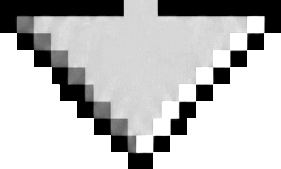
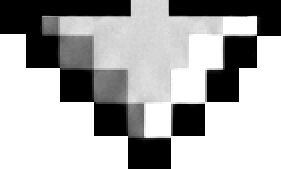
8-bit diagonal arrowheads upgrades

Changed region(s): [[0.0, 0.0888, 1.0, 1.0], [0.5409, 0.0, 0.6263, 0.1183], [0.427, 0.0, 0.484, 0.1183]]

diff --git a/lib/shared/widgets/theme_selector_tiles.dart b/lib/shared/widgets/theme_selector_tiles.dart
@@ -323,11 +323,11 @@ class _ArrowThemePreviewPainter extends CustomPainter {
           outlineColor: _previewOutlineColor,
         );
       case ArrowThemeMode.heavy3d:
+        final angle = atan2(end.dy - start.dy, end.dx - start.dx);
         const heavyPreviewHeadScale = 0.75;
-        final heavyPreviewHeadLen = 18.0 * heavyPreviewHeadScale;
-        final heavyPreviewHeadWing = 10.0 * heavyPreviewHeadScale;
-        final heavyPreviewHeadWaist = 9.0 * heavyPreviewHeadScale;
-        final heavyPreviewShaftStop = 12.0 * heavyPreviewHeadScale;
+        final heavyPreviewHeadLen = 18.0 * 1.35 * heavyPreviewHeadScale;
+        final heavyPreviewHeadWaist = heavyPreviewHeadLen * 0.78;
+        const heavyPreviewHeadAngle = 0.34;
         final shadowPaint = Paint()
           ..color = Colors.black.withValues(alpha: 0.28)
           ..strokeWidth = 11
@@ -336,7 +336,7 @@ class _ArrowThemePreviewPainter extends CustomPainter {
           ..maskFilter = const MaskFilter.blur(BlurStyle.normal, 4);
         canvas.drawLine(
           start + const Offset(1.5, 2.5),
-          end - (unit * (heavyPreviewShaftStop - 2.0)),
+          end - (unit * max(0.0, heavyPreviewHeadWaist - 2.0)),
           shadowPaint,
         );
 
@@ -349,7 +349,7 @@ class _ArrowThemePreviewPainter extends CustomPainter {
           ..strokeWidth = 10
           ..strokeCap = StrokeCap.round
           ..style = PaintingStyle.stroke;
-        canvas.drawLine(start, end - (unit * heavyPreviewShaftStop), basePaint);
+        canvas.drawLine(start, end - (unit * heavyPreviewHeadWaist), basePaint);
 
         final corePaint = Paint()
           ..shader = _previewGradientShader(
@@ -360,10 +360,10 @@ class _ArrowThemePreviewPainter extends CustomPainter {
           ..strokeWidth = 7
           ..strokeCap = StrokeCap.round
           ..style = PaintingStyle.stroke;
-        canvas.drawLine(start, end - (unit * heavyPreviewShaftStop), corePaint);
+        canvas.drawLine(start, end - (unit * heavyPreviewHeadWaist), corePaint);
         canvas.drawLine(
           start - (perp * 1.8),
-          end - (unit * (heavyPreviewShaftStop + 1.0)) - (perp * 1.8),
+          end - (unit * (heavyPreviewHeadWaist + 1.0)) - (perp * 1.8),
           Paint()
             ..color = Colors.white.withValues(alpha: 0.60)
             ..strokeWidth = 2.2
@@ -373,24 +373,16 @@ class _ArrowThemePreviewPainter extends CustomPainter {
         final headPath = Path()
           ..moveTo(end.dx, end.dy)
           ..lineTo(
-            end.dx -
-                unit.dx * heavyPreviewHeadLen +
-                perp.dx * heavyPreviewHeadWing,
-            end.dy -
-                unit.dy * heavyPreviewHeadLen +
-                perp.dy * heavyPreviewHeadWing,
+            end.dx - heavyPreviewHeadLen * cos(angle - heavyPreviewHeadAngle),
+            end.dy - heavyPreviewHeadLen * sin(angle - heavyPreviewHeadAngle),
           )
           ..lineTo(
-            end.dx - unit.dx * heavyPreviewHeadWaist,
-            end.dy - unit.dy * heavyPreviewHeadWaist,
+            end.dx - heavyPreviewHeadWaist * cos(angle),
+            end.dy - heavyPreviewHeadWaist * sin(angle),
           )
           ..lineTo(
-            end.dx -
-                unit.dx * heavyPreviewHeadLen -
-                perp.dx * heavyPreviewHeadWing,
-            end.dy -
-                unit.dy * heavyPreviewHeadLen -
-                perp.dy * heavyPreviewHeadWing,
+            end.dx - heavyPreviewHeadLen * cos(angle + heavyPreviewHeadAngle),
+            end.dy - heavyPreviewHeadLen * sin(angle + heavyPreviewHeadAngle),
           )
           ..close();
 

diff --git a/lib/features/analysis/chess_analysis/base_state.dart b/lib/features/analysis/chess_analysis/base_state.dart
@@ -223,7 +223,7 @@ abstract class _ChessAnalysisPageStateBase extends State<ChessAnalysisPage>
   static const int _vsBotInterstitialMatchInterval = 3;
   static const int _bookOpeningPlyLimit = 6;
   static const int _sacrificeModePrice = 2850;
-  static const int _pixelArrowThemePrice = 200;
+  static const int _pixelArrowThemePrice = 850;
   static const int _heavyArrowThemePrice = 1200;
   static const int _moveQualityGradingMultiPv = 4;
   static const int _moveQualityInitialPublishDepth = 2;
